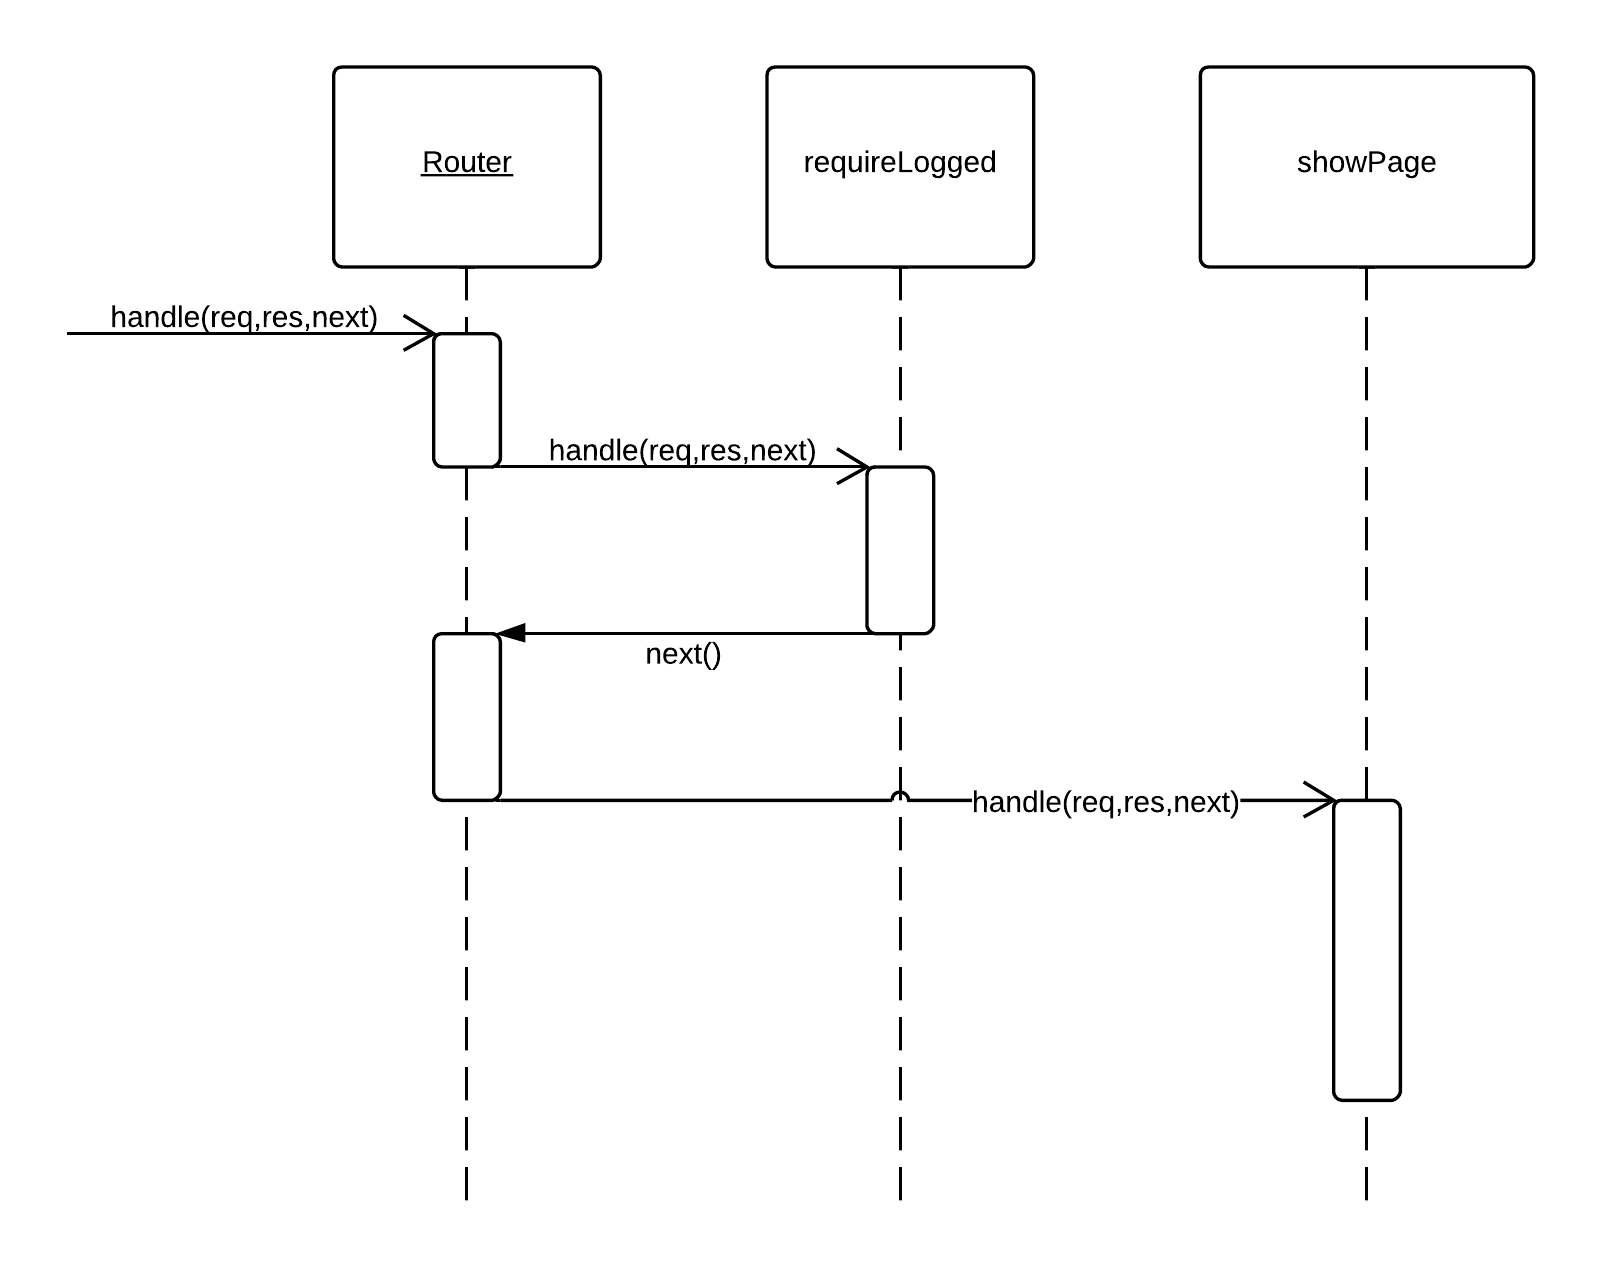
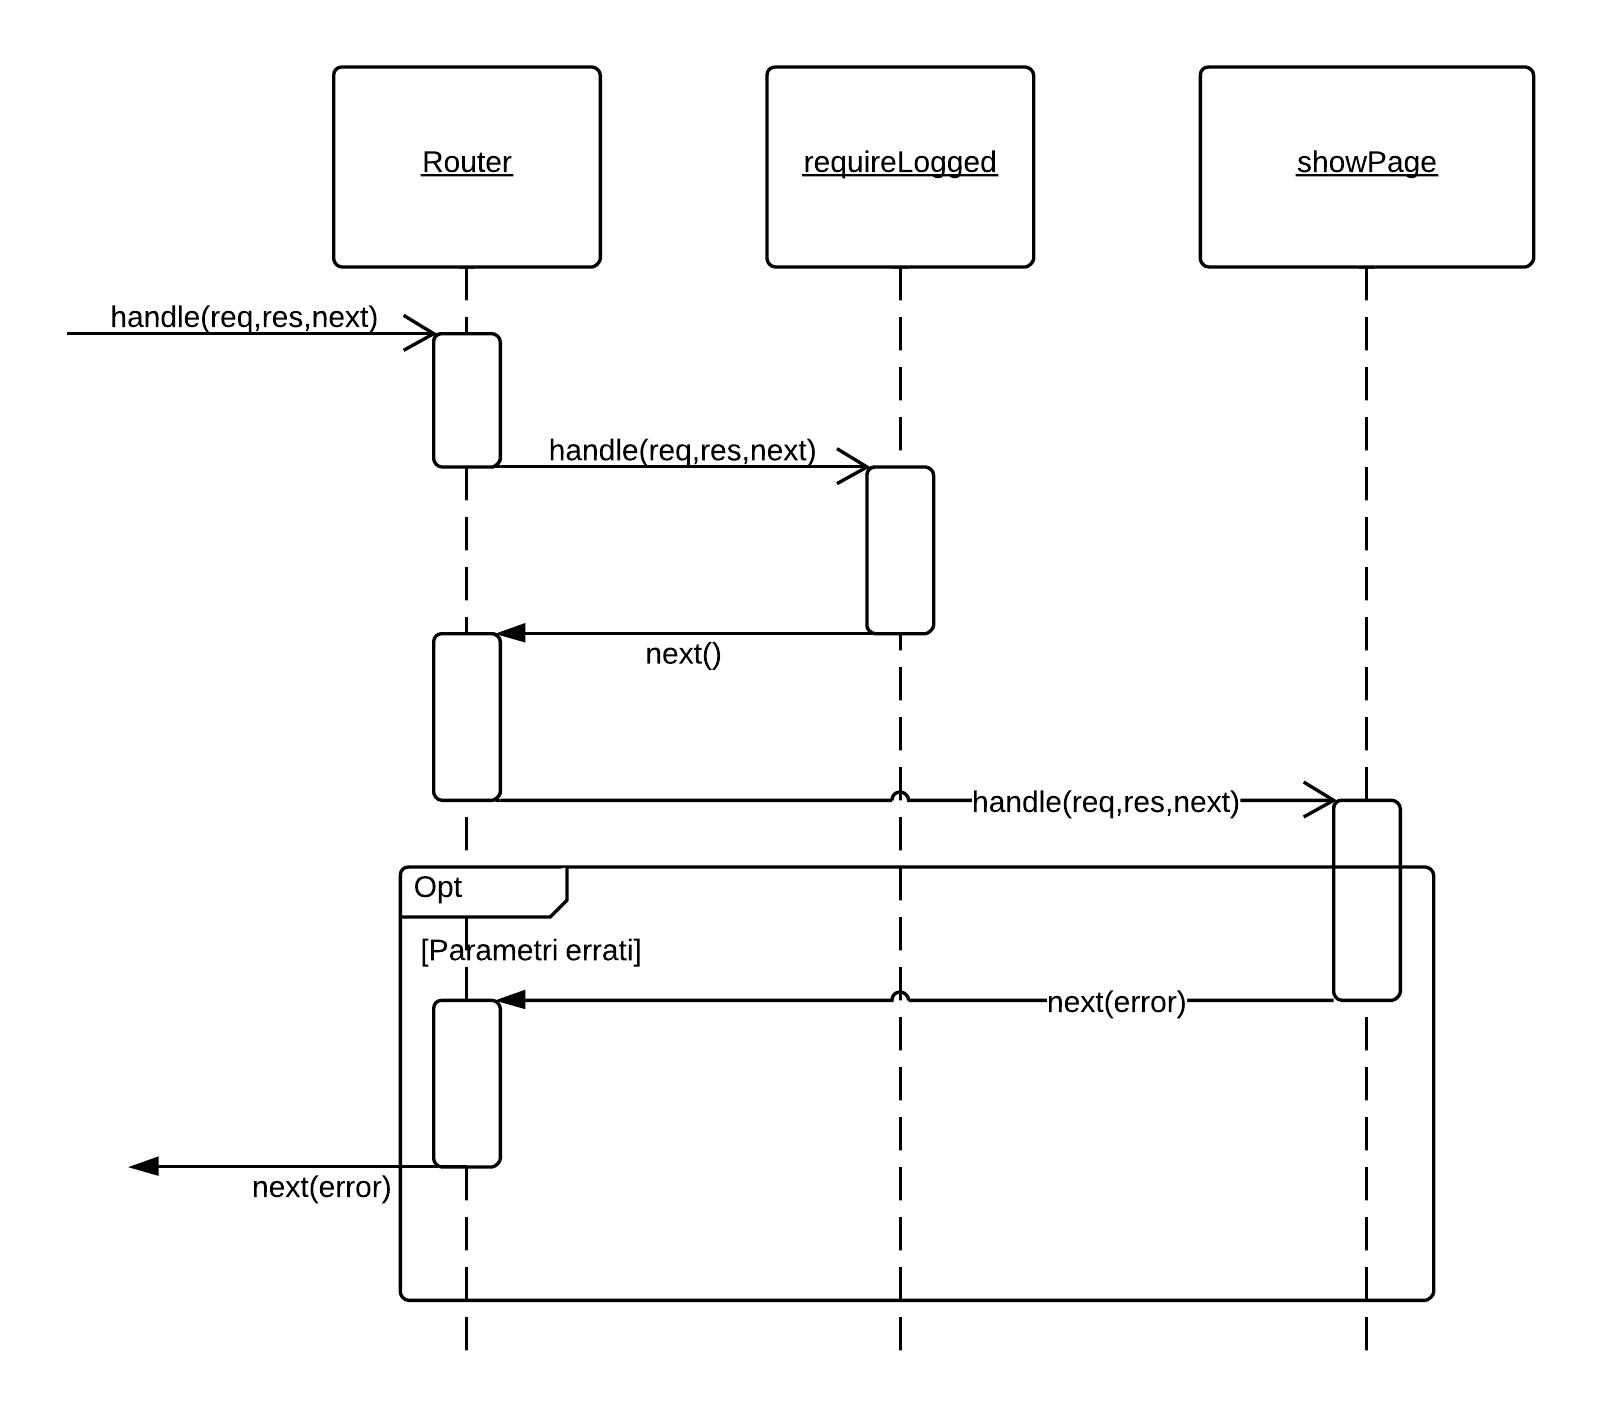
ST: Aggiunti diagrammi

diff --git a/documenti/SpecificaTecnica/download_uml.py b/documenti/SpecificaTecnica/download_uml.py
@@ -43,11 +43,34 @@ else:
 
 lucidchart = LucidchartClient(callback_url = callback_url, server_port=server_port)
 
-lucidchart.download_image("437d-f4e4-52efd47d-907f-3aaf0a00c7a5", "uml/diagramma-deployment.png", width=1600)
+# Architettura generale
 
+lucidchart.download_image("437d-f4e4-52efd47d-907f-3aaf0a00c7a5", "uml/diagramma-deployment.png", width=1600)
 lucidchart.download_image("4e5d-5500-52dfaeac-975e-420b0a009998", "uml/architettura-generale-package.png", width=1600)
 
-lucidchart.download_image("481c-f134-52eadfb8-b89d-38f60a009f36", "uml/diagramma-classi-front-end.png", width=1600)
+# Back-end
+
+lucidchart.download_image("4503-9b84-52ed294c-bcab-649a0a00d8ac", "uml/Back-end-Diagramma dei Packages.png")
+lucidchart.download_image("42ee-aa18-52ee214e-97c2-1b760a00c7a5", "uml/Back-end-Diagramma delle classi.png")
+lucidchart.download_image("417e-3274-52efb757-8482-2fec0a004eaf", "packages/Lib.png")
+
+lucidchart.download_image("4764-99d8-52ee6346-816b-3e850a009f36", "packages/DSLModel.png")
+lucidchart.download_image("46a9-31e4-52ee5e28-b3cb-3a540a004eaf", "packages/Controller.png")
+lucidchart.download_image("49f6-9050-52ee5daf-aee7-1f600a00c7a5", "packages/AuthModel.png")
+lucidchart.download_image("460b-0034-52ee5d18-8e58-1b740a00c7a5", "packages/Middleware.png")
+lucidchart.download_image("4e24-fb68-52ee5c82-baf3-79d10a009f36", "packages/MailView.png")
+lucidchart.download_image("4b82-f668-52ee5c3c-a084-129e0a004eaf", "packages/DeveloperProject.png")
+
+# Front-end
+
+lucidchart.download_image("481c-f134-52eadfb8-b89d-38f60a009f36", "uml/Front-end-Diagramma delle classi.png")
+lucidchart.download_image("46db-fe50-52ee59b2-9159-104d0a00d8ac", "uml/Front-end-Diagramma dei packages.png")
+lucidchart.download_image("4a09-4850-52ee4370-a63f-1ccd0a008772", "packages/Services.png")
+lucidchart.download_image("4222-7be4-52ee445b-8b0c-34fa0a00d8ac", "packages/Controllers.png")
+
+lucidchart.download_image("48ba-c3f8-52efbb7d-b3ee-3d760a008cac", "packages/Model.png")
+
+# Diagrammi di attività
 
 lucidchart.download_image("4d01-fab4-52dac262-8caf-6d3b0a0044cb", "uml/MaaP - Apri pagina gestione utenti.png")
 lucidchart.download_image("43ed-3f84-52d93755-a6c3-500d0a004790", "uml/MaaP - Modifica profilo.png")
@@ -67,9 +90,10 @@ lucidchart.download_image("4ff5-dafc-52ed0192-b270-1b550a00c7a5", "uml/MaaS - Cr
 lucidchart.download_image("4dfb-2698-52ed0f8b-9e03-50580a0048dc", "uml/Framework - Diagramma di installazione.png")
 lucidchart.download_image("44d6-9194-52ee820c-8332-30020a0048dc", "uml/Framework - Crea cartella front-end di default.png")
 
+# Scenari 
 
-
-#uml Scenari 
+lucidchart.download_image("4b48-aacc-52e916f6-8d9b-7f110a0080fd", "scenari/Diagramma Routing Richiesta.png")
+lucidchart.download_image("426d-99f8-52e9169b-a010-263b0a0049fb", "scenari/Diagramma Gestione Richiesta.png")
 
 lucidchart.download_image("40ef-da14-52e92878-b851-4bb70a009cc4", "scenari/requireNotLogged ERROR.png")
 lucidchart.download_image("4f11-86bc-52ea65a0-aff2-549c0a004801", "scenari/requireLogged ERROR.png")
@@ -91,30 +115,4 @@ lucidchart.download_image("4dfc-0ffc-52ea43b0-adbc-2ae30a00c47f", "scenari/Colle
 lucidchart.download_image("4b55-e628-52ea3161-84f4-1cfe0a008a7d", "scenari/Users Id GET.png")
 lucidchart.download_image("4caa-b984-52ea3079-80dc-54820a0080fd", "scenari/Users POST.png")
 lucidchart.download_image("4fb7-7948-52ea45c2-a882-6f990a00c886", "scenari/Collection Name Document GET.png")
-
-lucidchart.download_image("4b48-aacc-52e916f6-8d9b-7f110a0080fd", "scenari/Diagramma Routing Richiesta.png")
-lucidchart.download_image("426d-99f8-52e9169b-a010-263b0a0049fb", "scenari/Diagramma Gestione Richiesta.png")
-
-#Back-end, Front-end e packages 
-
-lucidchart.download_image("4503-9b84-52ed294c-bcab-649a0a00d8ac", "uml/Back-end-Diagramma dei Packages.png")
-lucidchart.download_image("42ee-aa18-52ee214e-97c2-1b760a00c7a5", "uml/Back-end-Diagramma delle classi.png")
-lucidchart.download_image("4764-99d8-52ee6346-816b-3e850a009f36", "packages/DSLModel.png")
-lucidchart.download_image("46a9-31e4-52ee5e28-b3cb-3a540a004eaf", "packages/Controller.png")
-lucidchart.download_image("49f6-9050-52ee5daf-aee7-1f600a00c7a5", "packages/AuthModel.png")
-lucidchart.download_image("460b-0034-52ee5d18-8e58-1b740a00c7a5", "packages/Middleware.png")
-lucidchart.download_image("4e24-fb68-52ee5c82-baf3-79d10a009f36", "packages/MailView.png")
-lucidchart.download_image("4b82-f668-52ee5c3c-a084-129e0a004eaf", "packages/DeveloperProject.png")
-
-lucidchart.download_image("417e-3274-52efb757-8482-2fec0a004eaf", "packages/Lib.png")
-
-lucidchart.download_image("481c-f134-52eadfb8-b89d-38f60a009f36", "uml/Front-end-Diagramma delle classi.png")
-lucidchart.download_image("46db-fe50-52ee59b2-9159-104d0a00d8ac", "uml/Front-end-Diagramma dei packages.png")
-lucidchart.download_image("4a09-4850-52ee4370-a63f-1ccd0a008772", "packages/Services.png")
-lucidchart.download_image("4222-7be4-52ee445b-8b0c-34fa0a00d8ac", "packages/Controllers.png")
-
-lucidchart.download_image("48ba-c3f8-52efbb7d-b3ee-3d760a008cac", "packages/Model.png")
-
-
-
 

diff --git a/documenti/SpecificaTecnica/capitolo-definizione-architettura.tex b/documenti/SpecificaTecnica/capitolo-definizione-architettura.tex
@@ -21,7 +21,7 @@ I diagrammi di deployment, dei \glossario{package}, delle classi, di sequenza e 
 
 \subsection{Architettura generale}
 
-L'architettura del progetto si suddivide innanzitutto in una componente Client, costituita dal browser degli utenti che interagiranno con il \glossario{front-end} dell'applicazione, e in un web server, su cui verrà posto il \glossario{back-end}. Il server che ospita i database (la cui configurazione non è compito del progetto) non è necessario che risieda sullo stesso nodo su cui è posto il \glossario{back-end}.
+L'architettura del progetto si suddivide innanzitutto in una componente Client, costituita dal browser degli utenti che interagiranno con il \glossario{front-end} dell'applicazione, e in una componente WebServer, su cui verrà posto il \glossario{back-end}. Riguardo al server che ospita i database (la cui configurazione non è compito del progetto) non è necessario che risieda sullo stesso nodo su cui è posto il \glossario{back-end}.
 
 \begin{figure}[H]
 \centering
@@ -41,6 +41,8 @@ I motivi che hanno spinto alla scelta di \glossario{REST} sono:
 
 \glossario{REST} utilizza il concetto di risorsa, ovvero un aggregato di dati con un nome (\glossario{URI}) e una rappresentazione, su cui è possibile invocare le operazioni \glossario{CRUD} tramite la seguente corrispondenza:
 
+\begingroup
+\renewcommand*{\arraystretch}{1.5}
 \begin{tabularx}{\textwidth}{|P{2.5cm}|X|X|}
 \hline
 	\textbf{Risorsa} & \textbf{URI della collection} \newline es. http://example.com/users & \textbf{URI di un elemento} \newline es. http://example.com/users/42 \\
@@ -54,6 +56,7 @@ I motivi che hanno spinto alla scelta di \glossario{REST} sono:
 	\textbf{DELETE} & Non usata. & \textbf{Cancella} l'elemento della collection indicato. \\
 \hline
 \end{tabularx}
+\endgroup
 
 Per il formato di rappresentazione dei dati è stato scelto \glossario{JSON}, in quanto si integra molto facilmente con i framework utilizzati e con il linguaggio \glossario{JavaScript}, a differenza di \glossario{XML} o \glossario{CSV} che richiederebbero l'utilizzo di librerie specifiche.
 
@@ -72,8 +75,8 @@ L'architettura del back-end si serve del pattern architetturale \glossario{MVC} 
 
 \begin{figure}[H]
 \centering
-\includegraphics[width=\textwidth]{uml/Front-end-Diagramma dei packages.png}
+\includegraphics[width=0.5\textwidth]{uml/Front-end-Diagramma dei packages.png}
 \caption{Diagramma dei package del Front-end}
 \end{figure}
 
-Il \glossario{front-end} è gestito dal \glossario{framework} \glossario{AngularJS}, la cui architettura è definita \glossario{MVW} (ossia Model-View-Whatever) per la caratteristica di non corrispondere esattamente ad uno dei modelli classici. Nell'architettura si è scelto di descrivere i \glossario{package} del controller e del model, nonché un package che definisce i servizi con i quali i controller potranno interagire con il back-end e popolare il modello di AngularJS.
+Il \glossario{front-end} è gestito dal \glossario{framework} \glossario{AngularJS}, la cui architettura è definita \glossario{MVW} (ossia Model-View-Whatever) per la caratteristica di non corrispondere esattamente ad uno dei modelli classici. Nell'architettura si è scelto di descrivere i \glossario{package} del controller e del model, nonché un package che definisce i servizi con i quali i controller potranno interagire con il back-end e popolare i modelli di AngularJS. La view non è rappresentata poiché consiste unicamente in dei file statici di template scritti in un linguaggio molto simile all'HTML. Tali file risiedono fisicamente sul Server, assieme alle librerie JavaScript e ad altri file statici; vengono caricati da AngularJS nel momento in cui il controller ne fa richiesta.

diff --git a/documenti/SpecificaTecnica/capitolo-back-end.tex b/documenti/SpecificaTecnica/capitolo-back-end.tex
@@ -2,8 +2,9 @@
 
 \subsection{Interfaccia REST}
 
-Ad ogni richiesta il server può rispondere con un messaggio di errore nel formato \glossario{JSON} e inviato con un codice \glossario{HTTP} della tipologia 4xx o 5xx. 
+A molte delle richieste il server può rispondere con un messaggio di errore nel formato \glossario{JSON}, inviato con un codice \glossario{HTTP} della tipologia 4xx (errore client) o 5xx (errore server). 
 Il formato \glossario{JSON} del messaggio di errore sarà:
+
 \begin{lstlisting}
 { 
   "code": [codice numerico dell'errore],
@@ -11,7 +12,9 @@ Il formato \glossario{JSON} del messaggio di errore sarà:
   "data": [eventuali dati aggiuntivi sull'errore]
 }
 \end{lstlisting}
-Di seguito sono elencate le risorse REST associate al tipo di metodo che è possibile richiedere su esse e i permessi richiesti per poter effettuare la richiesta. \\
+
+Di seguito sono elencate le risorse REST associate al tipo di metodo che è possibile richiedere su esse e i permessi richiesti per poter effettuare la richiesta.
+
 I tipi di permessi possibili sono: 
 \begin{itemize}
 \item \textbf{Utente}: questa risorsa può essere richiesta da qualsiasi tipo di utente;
@@ -22,7 +25,7 @@ I tipi di permessi possibili sono:
 \begin{center}
 	\def\arraystretch{1.5}
 	\bgroup
-	\begin{longtable}{| p{9cm} | p{1.5cm} | p{4cm} |}
+\begin{longtable}{| p{9cm} | p{1.5cm} | p{4cm} |}
 	\hline 
 	\textbf{\emph{/login}} & \textbf{POST} & \textbf{Utente} \\ \hline
 	\multicolumn{3}{|c|} {Crea una nuova sessione associata all'utente, corrisponde al login.} \\ \specialrule{1pt}{1pt}{1pt}
@@ -99,11 +102,12 @@ I tipi di permessi possibili sono:
 \end{longtable}
 	  \egroup
 \end{center}
+
 \subsection{Diagramma dei package}
 
 \begin{figure}[H]
 \centering
-%TODO \includegraphics[width=\textwidth]{uml/Back-end-Diagramma dei Packages.png}
+\includegraphics[width=\textwidth]{uml/Front-end-Diagramma delle classi.png}
 \caption{Diagramma delle classi del Front-end}
 \label{diagrammaClassiFrontEnd}
 \end{figure}
@@ -112,7 +116,7 @@ I tipi di permessi possibili sono:
 
 \begin{figure}[H]
 \centering
-%TODO \includegraphics[width=\textwidth]{uml/Back-end-Diagramma delle classi.png}
+\includegraphics[width=\textwidth]{uml/Back-end-Diagramma delle classi.png}
 \caption{Diagramma delle classi del Front-end}
 \label{diagrammaClassiFrontEnd}
 \end{figure}
